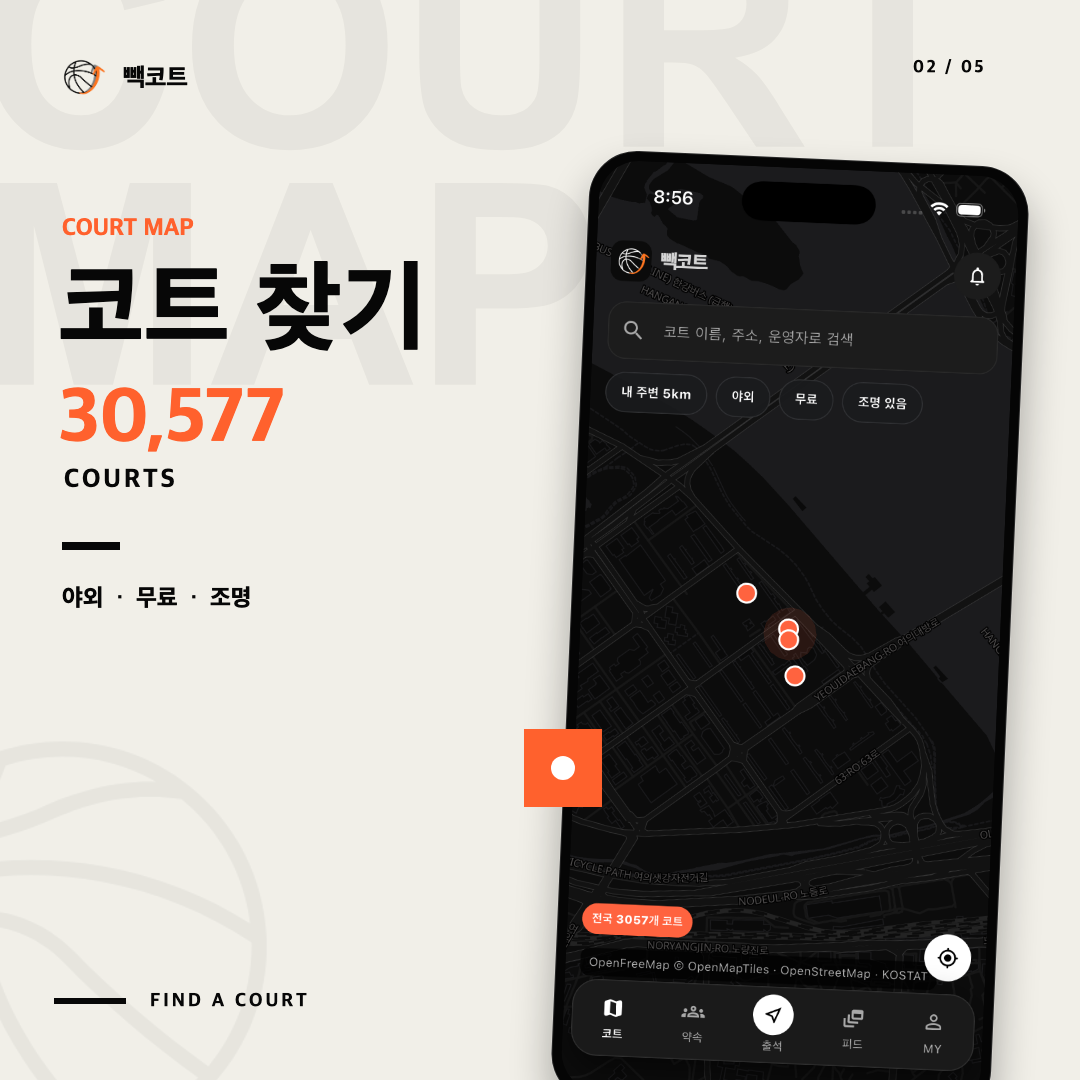
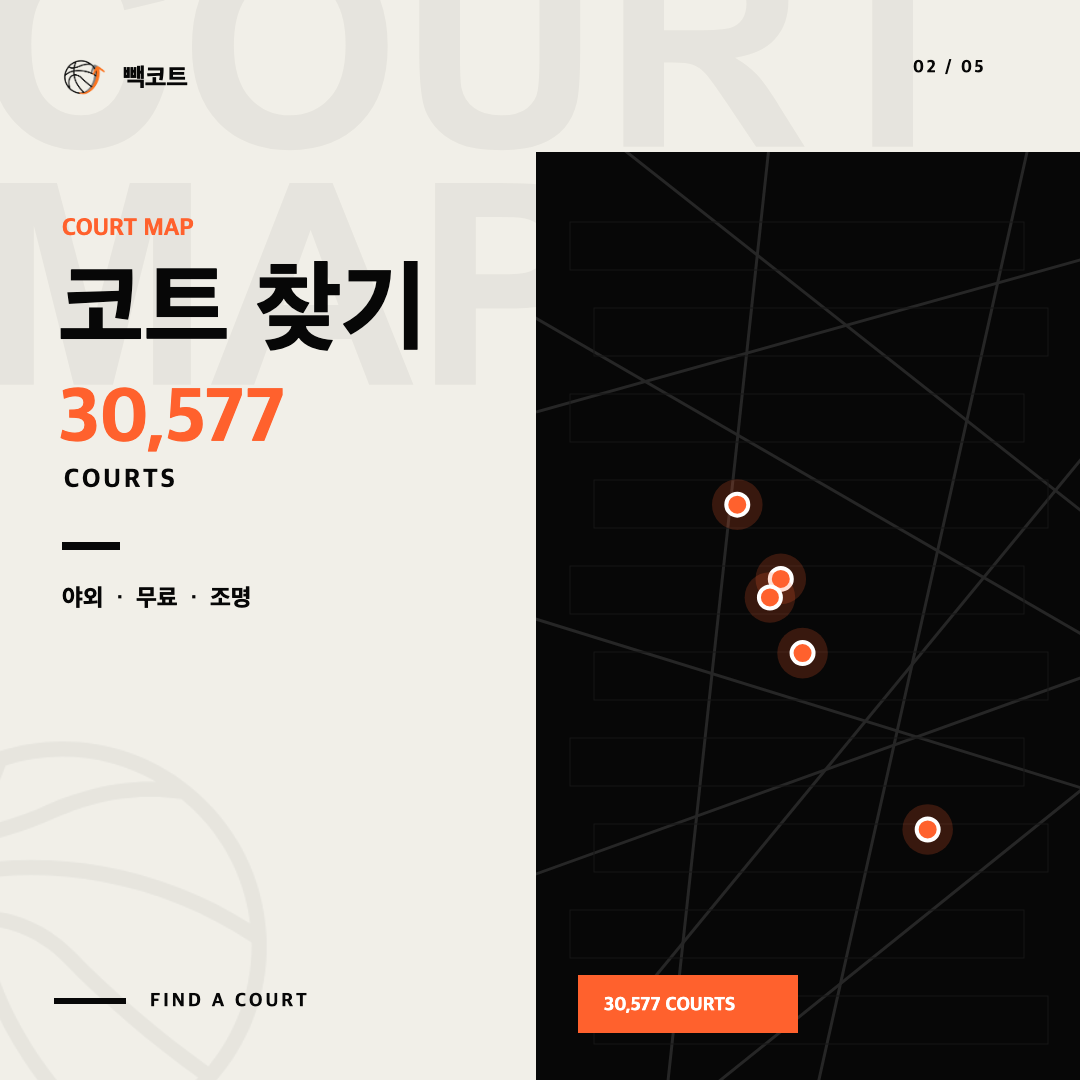
Make promo graphics resilient to UI changes

diff --git a/Backcourt-Social/app.js b/Backcourt-Social/app.js
@@ -13,12 +13,6 @@ const sources = {
   icon: "./assets/app-icon.png",
   markLight: "./assets/brand-mark-on-light.png",
   ball: "./assets/ball.png",
-  map: "./assets/map.png",
-  live: "./assets/live.png",
-  meetup: "./assets/meetup.png",
-  checkin: "./assets/checkin.png",
-  feed: "./assets/feed.png",
-  profile: "./assets/profile.png",
 };
 
 const images = {};
@@ -166,6 +160,177 @@ function heroIcon(ctx, x, y, size, angle = -3) {
   ctx.restore();
 }
 
+function mapArtwork(ctx, x, y, width, height) {
+  ctx.save();
+  ctx.beginPath();
+  ctx.rect(x, y, width, height);
+  ctx.clip();
+  ctx.fillStyle = C.ink;
+  ctx.fillRect(x, y, width, height);
+
+  ctx.strokeStyle = "#262626";
+  ctx.lineWidth = 3;
+  const roads = [
+    [-80, 120, 680, 560], [40, -40, 610, 410], [-120, 430, 720, 690],
+    [90, 860, 650, 180], [240, -70, 120, 1040], [500, -40, 260, 1030],
+    [-50, 740, 700, 470], [0, 260, 680, 70], [120, 980, 580, 610],
+  ];
+  roads.forEach(([x1, y1, x2, y2]) => {
+    ctx.beginPath();
+    ctx.moveTo(x + x1, y + y1);
+    ctx.lineTo(x + x2, y + y2);
+    ctx.stroke();
+  });
+
+  ctx.strokeStyle = "#171717";
+  ctx.lineWidth = 1;
+  for (let row = 0; row < 10; row += 1) {
+    ctx.strokeRect(x + 34 + (row % 2) * 24, y + 70 + row * 86, width - 90, 48);
+  }
+
+  const markers = [[.37, .38, 11], [.45, .46, 11], [.43, .48, 11], [.49, .54, 11], [.72, .73, 11]];
+  markers.forEach(([px, py, radius]) => {
+    ctx.fillStyle = "rgba(255,97,45,.20)";
+    ctx.beginPath();
+    ctx.arc(x + width * px, y + height * py, radius * 2.3, 0, Math.PI * 2);
+    ctx.fill();
+    ctx.fillStyle = C.orange;
+    ctx.strokeStyle = C.white;
+    ctx.lineWidth = 4;
+    ctx.beginPath();
+    ctx.arc(x + width * px, y + height * py, radius, 0, Math.PI * 2);
+    ctx.fill();
+    ctx.stroke();
+  });
+
+  ctx.fillStyle = C.orange;
+  ctx.fillRect(x + 42, y + height - 105, 220, 58);
+  ctx.fillStyle = C.white;
+  ctx.font = font(900, 19);
+  ctx.fillText("30,577 COURTS", x + 68, y + height - 69);
+  ctx.restore();
+}
+
+function liveCard(ctx, x, y, width, height, type) {
+  ctx.save();
+  ctx.shadowColor = "rgba(0,0,0,.18)";
+  ctx.shadowBlur = 0;
+  ctx.shadowOffsetX = 18;
+  ctx.shadowOffsetY = 22;
+  roundedFill(ctx, x, y, width, height, 42, C.ink);
+  ctx.shadowColor = "transparent";
+  ctx.fillStyle = C.orange;
+  ctx.font = font(900, 20);
+  trackedText(ctx, type === "live" ? "LIVE" : "MEETUP", x + 38, y + 58, 3);
+  ctx.fillStyle = C.white;
+
+  if (type === "live") {
+    ctx.font = font(900, 148);
+    ctx.fillText("05", x + 34, y + 213);
+    ctx.font = font(900, 27);
+    ctx.fillText("PLAYING", x + 42, y + 260);
+    ctx.fillStyle = C.orange;
+    ctx.fillRect(x + 34, y + 315, width - 68, 176);
+    ctx.fillStyle = C.ink;
+    ctx.font = font(900, 24);
+    ctx.fillText("지금 코트", x + 62, y + 365);
+    ctx.font = font(900, 48);
+    ctx.fillText("영등포덩크", x + 61, y + 428);
+  } else {
+    ctx.font = font(900, 104);
+    ctx.fillText("19:30", x + 36, y + 190);
+    ctx.fillStyle = C.orange;
+    ctx.font = font(900, 25);
+    ctx.fillText("오늘", x + 42, y + 252);
+    ctx.fillStyle = C.white;
+    ctx.font = font(900, 38);
+    ctx.fillText("4 / 6", x + 42, y + 318);
+    ctx.strokeStyle = C.orange;
+    ctx.lineWidth = 8;
+    ctx.beginPath();
+    ctx.moveTo(x + 42, y + 376);
+    ctx.lineTo(x + width - 42, y + 376);
+    ctx.stroke();
+    ctx.fillStyle = C.muted;
+    ctx.font = font(800, 22);
+    ctx.fillText("한강 시민공원", x + 42, y + 432);
+  }
+  ctx.restore();
+}
+
+function radarArtwork(ctx, centerX, centerY) {
+  ctx.save();
+  ctx.strokeStyle = "rgba(255,255,255,.20)";
+  ctx.lineWidth = 3;
+  [72, 116, 160, 204].forEach((radius) => {
+    ctx.beginPath();
+    ctx.arc(centerX, centerY, radius, 0, Math.PI * 2);
+    ctx.stroke();
+  });
+  ctx.fillStyle = C.white;
+  ctx.beginPath();
+  ctx.arc(centerX, centerY, 66, 0, Math.PI * 2);
+  ctx.fill();
+  ctx.fillStyle = C.ink;
+  ctx.beginPath();
+  ctx.moveTo(centerX + 28, centerY - 34);
+  ctx.lineTo(centerX + 5, centerY + 33);
+  ctx.lineTo(centerX - 13, centerY + 8);
+  ctx.lineTo(centerX - 40, centerY - 5);
+  ctx.closePath();
+  ctx.fill();
+  ctx.restore();
+}
+
+function feedArtwork(ctx, x, y, width, height) {
+  ctx.fillStyle = C.ink;
+  ctx.fillRect(x, y, width, height);
+  const blocks = [
+    [24, 24, width - 48, 150], [24, 194, width * .45, 220],
+    [width * .51, 194, width * .43, 220], [24, 434, width - 48, 190],
+  ];
+  blocks.forEach(([bx, by, bw, bh], index) => {
+    ctx.fillStyle = index === 2 ? C.orange : "#1d1d1d";
+    ctx.fillRect(x + bx, y + by, bw, bh);
+    ctx.strokeStyle = index === 2 ? C.ink : "#3a3a3a";
+    ctx.lineWidth = 3;
+    ctx.beginPath();
+    ctx.arc(x + bx + bw * .5, y + by + bh * .5, Math.min(bw, bh) * .28, 0, Math.PI * 2);
+    ctx.stroke();
+  });
+}
+
+function profileArtwork(ctx, x, y, width, height) {
+  ctx.fillStyle = C.ink;
+  ctx.fillRect(x, y, width, height);
+  ctx.drawImage(images.icon, x + 38, y + 42, 116, 116);
+  ctx.fillStyle = C.white;
+  ctx.font = font(900, 36);
+  ctx.fillText("BACKCOURT", x + 180, y + 90);
+  ctx.fillStyle = C.orange;
+  ctx.font = font(900, 19);
+  ctx.fillText("@BACKCOURT", x + 182, y + 126);
+  ctx.fillStyle = C.white;
+  ctx.font = font(900, 54);
+  ctx.fillText("24", x + 42, y + 252);
+  ctx.fillText("18", x + 172, y + 252);
+  ctx.fillText("07", x + 302, y + 252);
+  ctx.fillStyle = C.muted;
+  ctx.font = font(800, 18);
+  ctx.fillText("POST", x + 45, y + 286);
+  ctx.fillText("CHECK-IN", x + 166, y + 286);
+  ctx.fillText("LIVE", x + 312, y + 286);
+  ctx.fillStyle = C.paper;
+  ctx.fillRect(x + 38, y + 346, width - 76, 190);
+  ctx.fillStyle = C.ink;
+  ctx.font = font(900, 19);
+  trackedText(ctx, "COURT RECORD", x + 62, y + 390, 2);
+  ctx.font = font(900, 54);
+  ctx.fillText("LV. 07", x + 61, y + 466);
+  ctx.fillStyle = C.orange;
+  ctx.fillRect(x + 60, y + 495, width - 120, 10);
+}
+
 function courtLines(ctx, color, alpha = .22) {
   ctx.save();
   ctx.strokeStyle = color;
@@ -214,13 +379,7 @@ function slide2(ctx) {
   ctx.filter = "brightness(0)";
   ctx.drawImage(images.ball, -268, 616, 660, 660);
   ctx.restore();
-  phone(ctx, images.map, 570, 158, 440, 952, 2.5, .40);
-  ctx.fillStyle = C.orange;
-  ctx.fillRect(524, 729, 78, 78);
-  ctx.fillStyle = C.white;
-  ctx.beginPath();
-  ctx.arc(563, 768, 12, 0, Math.PI * 2);
-  ctx.fill();
+  mapArtwork(ctx, 536, 152, 544, 928);
   footerTag(ctx, "FIND A COURT");
 }
 
@@ -238,8 +397,8 @@ function slide3(ctx) {
   ctx.fillStyle = C.white;
   ctx.font = font(900, 24);
   ctx.fillText("LIVE   /   약속", 773, 261);
-  phone(ctx, images.live, 70, 414, 408, 884, -4, .23);
-  phone(ctx, images.meetup, 604, 372, 408, 884, 4, .24);
+  liveCard(ctx, 70, 414, 408, 650, "live");
+  liveCard(ctx, 604, 372, 408, 650, "meetup");
 }
 
 function slide4(ctx) {
@@ -262,7 +421,19 @@ function slide4(ctx) {
   ctx.fillText("01", 86, 706);
   ctx.font = font(900, 24);
   ctx.fillText("COURT RANK", 245, 691);
-  phone(ctx, images.checkin, 578, 130, 436, 944, 2, .41);
+  radarArtwork(ctx, 790, 410);
+  ctx.fillStyle = C.white;
+  ctx.font = font(900, 22);
+  ctx.textAlign = "center";
+  ctx.fillText("GPS 출석", 790, 684);
+  ctx.textAlign = "left";
+  ctx.fillStyle = "#1c1c1c";
+  ctx.fillRect(560, 748, 460, 232);
+  ctx.fillStyle = C.orange;
+  [0, 1, 2].forEach((index) => ctx.fillRect(598 + index * 116, 915 - index * 46, 76, 34 + index * 46));
+  ctx.fillStyle = C.white;
+  ctx.font = font(900, 20);
+  trackedText(ctx, "COURT RANKING", 598, 800, 2.5);
   footerTag(ctx, "LEAVE YOUR MARK", C.white);
 }
 
@@ -278,8 +449,8 @@ function slide5(ctx) {
   ctx.fillText("피드", 60, 316);
   ctx.fillStyle = C.orange;
   ctx.fillText("프로필", 60, 414);
-  phone(ctx, images.feed, 64, 484, 398, 862, -4, .14);
-  phone(ctx, images.profile, 618, 430, 398, 862, 4, .14);
+  feedArtwork(ctx, 54, 474, 420, 642);
+  profileArtwork(ctx, 606, 422, 474, 658);
   roundedFill(ctx, 390, 889, 300, 74, 37, C.orange);
   ctx.fillStyle = C.ink;
   ctx.font = font(900, 23);

diff --git a/Backcourt-Social/index.html b/Backcourt-Social/index.html
@@ -52,6 +52,6 @@
     </main>
 
     <footer>문구 · 배치 · 색은 화면 보면서 바로 수정</footer>
-    <script src="./app.js?v=4"></script>
+    <script src="./app.js?v=5"></script>
   </body>
 </html>
